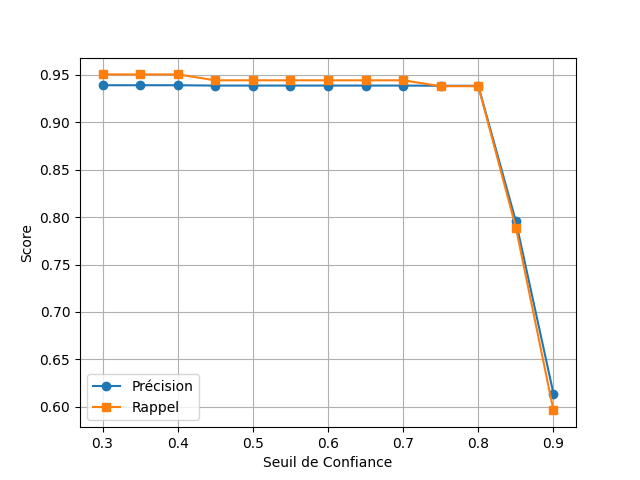
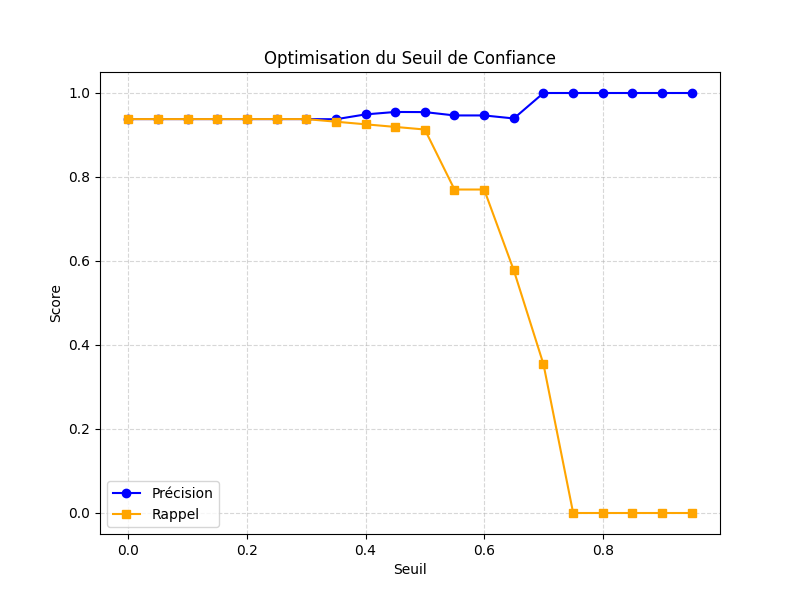
Corrections mineures

diff --git a/code/Test_modele/plot_seuils.py b/code/Test_modele/plot_seuils.py
@@ -59,7 +59,7 @@ def main():
     plt.grid(True, linestyle="--", alpha=0.5)
     plt.legend()
     
-    plt.savefig(BASE_DIR / "courbe_seuils_metier.png")
+    plt.savefig(BASE_DIR / "courbe_seuils.png")
     plt.show()
 
 if __name__ == "__main__":

diff --git a/code/Test_modele/train_model.py b/code/Test_modele/train_model.py
@@ -23,7 +23,7 @@ NUM_EPOCHS = 3
 BATCH_SIZE = 8
 MAX_LENGTH = 128
 
-# Callback pour afficher proprement les scores pendant l'entraînement
+# Fonction callback pour afficher proprement les scores pendant l'entraînement
 class AffichagePrecisionCallback(TrainerCallback):
     def on_evaluate(self, args, state, control, metrics, **kwargs):
         epoch = int(state.epoch) if state.epoch is not None else 0